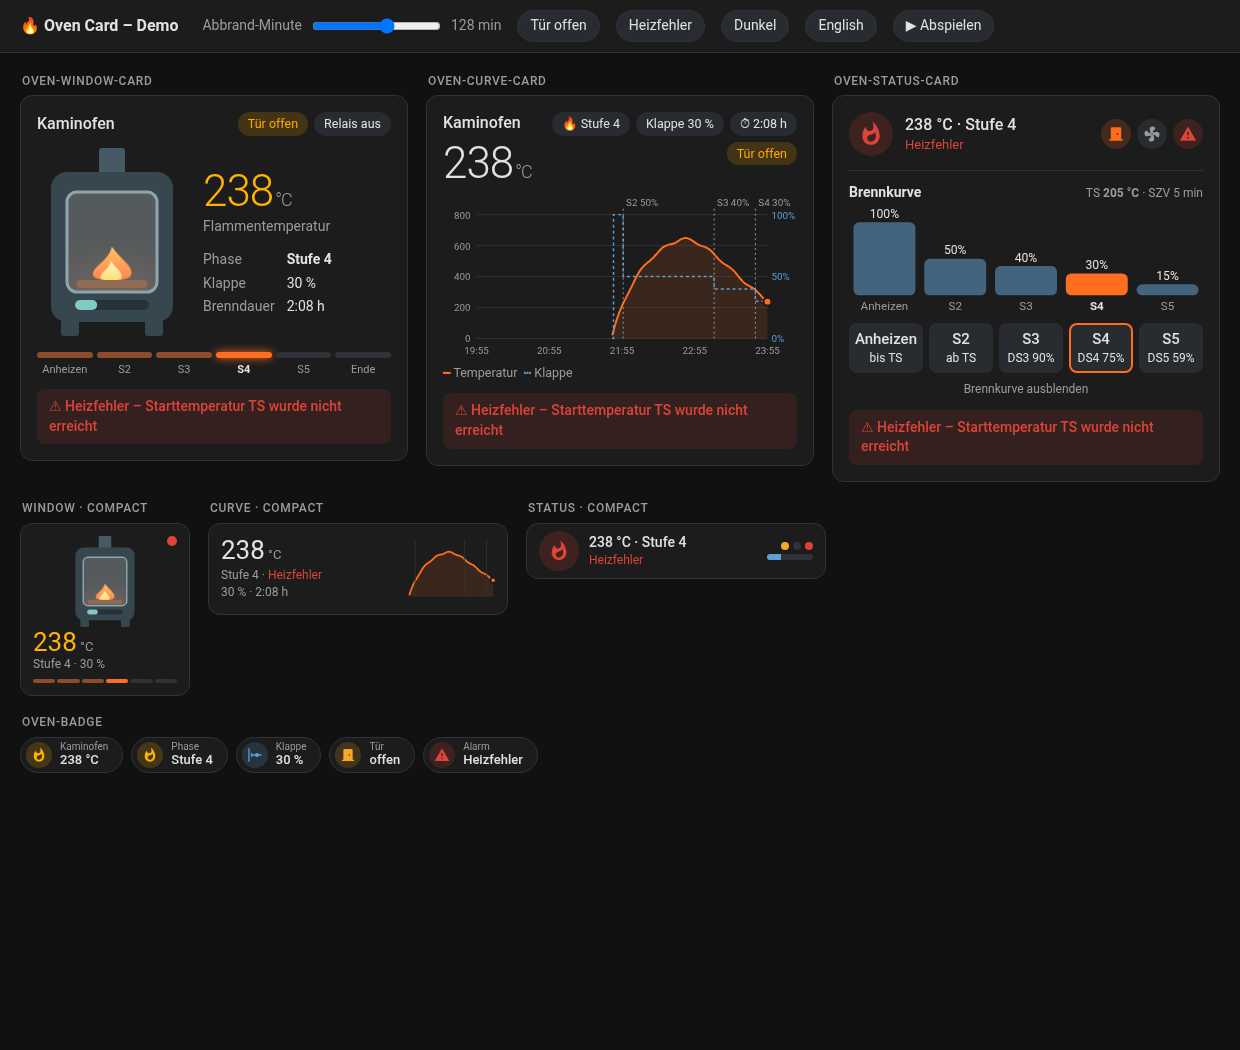
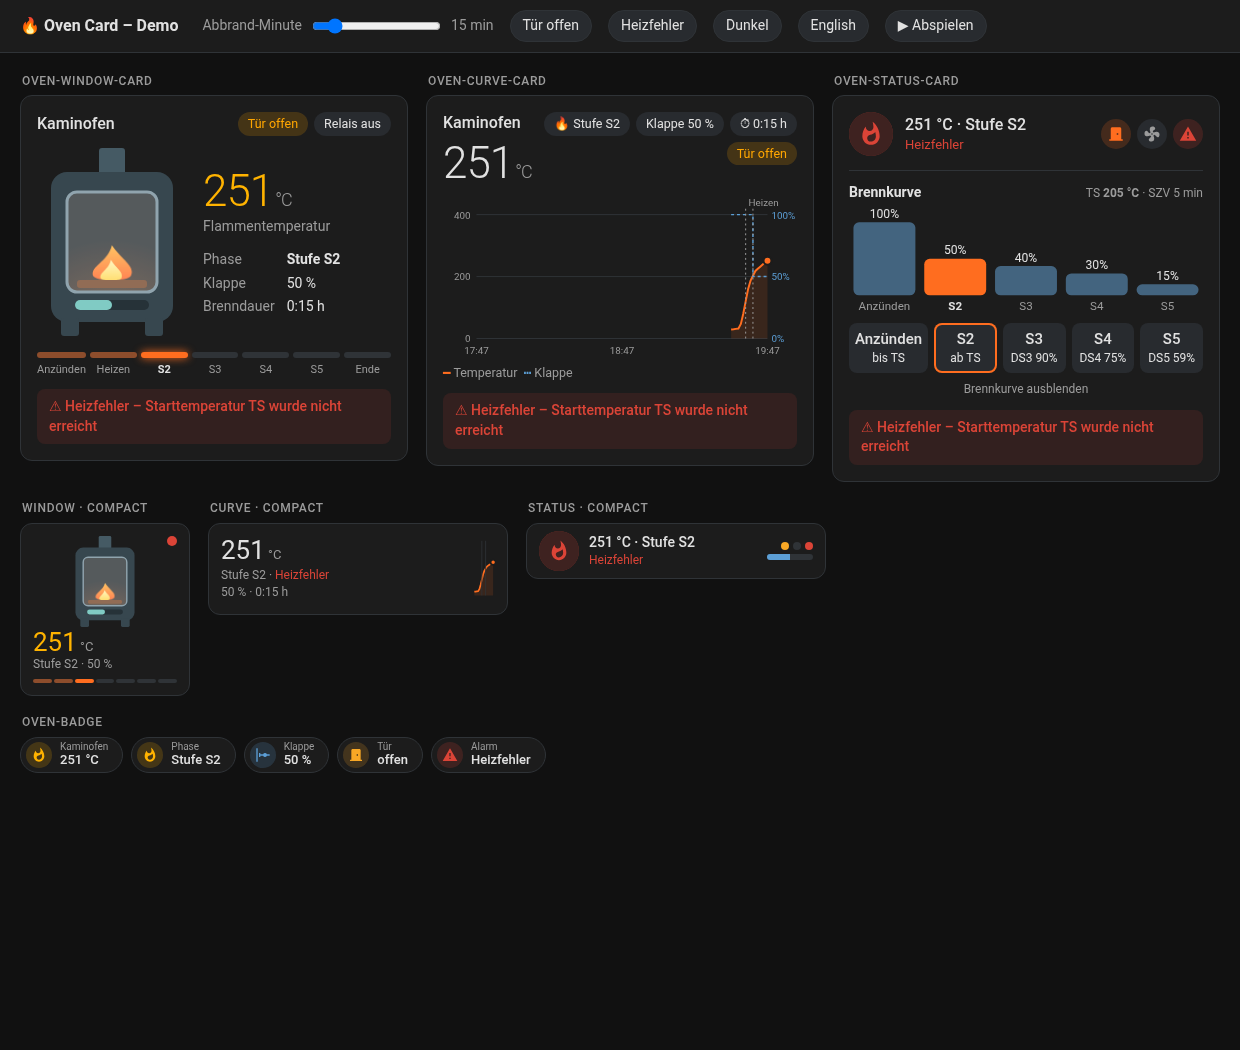
fix: map burn phases as measured on a live burn
Raw phase 2 is heating up and stages S2-S5 are phases 3-6; read the text
phase sensor of Oven Control 0.3.0 and the older numeric one. The demo
replays the measured burn, the curve defaults to 2 hours and stage labels
no longer overlap.

diff --git a/dist/oven-card.js b/dist/oven-card.js
@@ -15,11 +15,13 @@
 
 const VERSION = "0.1.0";
 const DOMAIN = "oven_control";
-const PHASE_ORDER = [1, 2, 3, 4, 5, 8];
+const PHASE_ORDER = [1, 2, 3, 4, 5, 6, 8];
+// States of the burn phase sensor -> raw controller phase (stages S2–S5 are phases 3–6).
+const PHASE_RAW = { idle: 0, start: 1, heating_up: 2, stage_2: 3, stage_3: 4, stage_4: 5, stage_5: 6, finished: 8 };
 
 const STRINGS = {
   en: {
-    oven: "Stove", off: "Off", start: "Kindling", stage: "Stage", end: "End", phase: "Phase",
+    oven: "Stove", off: "Off", start: "Kindling", heating: "Heating up", heat: "Heat", stage: "Stage", end: "End", phase: "Phase",
     flame: "Flame temperature", flap: "Air flap", duration: "Burn duration", door: "Door",
     open: "open", closed: "closed", relay: "Relay", on: "on", relay_off: "off",
     heating_error: "Heating error – start temperature TS not reached",
@@ -32,7 +34,7 @@ const STRINGS = {
     show_curve: "Show burn curve", badge_show: "Shows", hide_inactive: "Hide when inactive",
   },
   de: {
-    oven: "Kaminofen", off: "Aus", start: "Anheizen", stage: "Stufe", end: "Ende", phase: "Phase",
+    oven: "Kaminofen", off: "Aus", start: "Anzünden", heating: "Aufheizen", heat: "Heizen", stage: "Stufe", end: "Ende", phase: "Phase",
     flame: "Flammentemperatur", flap: "Klappe", duration: "Brenndauer", door: "Tür",
     open: "offen", closed: "zu", relay: "Relais", on: "an", relay_off: "aus",
     heating_error: "Heizfehler – Starttemperatur TS wurde nicht erreicht",
@@ -92,10 +94,19 @@ function num(hass, id) {
 }
 const isOn = (hass, id) => hass.states[id]?.state === "on";
 
+/** Raw phase number from a state (text sensor since integration 0.3.0, number before). */
+function phaseNum(state, attrs) {
+  if (Number.isFinite(attrs?.raw_phase)) return attrs.raw_phase;
+  if (state in PHASE_RAW) return PHASE_RAW[state];
+  const v = parseInt(state, 10);
+  return Number.isFinite(v) ? v : null;
+}
+
 /** Read everything the cards need from the states of one device. */
 function readOven(hass, map) {
   const id = (k) => map[k];
-  const phase = num(hass, id("sensor.phase"));
+  const phaseState = hass.states[id("sensor.phase")];
+  const phase = phaseState ? phaseNum(phaseState.state, phaseState.attributes) : null;
   const errors = ["heating_error", "flame_sensor_error", "boiler_overheat", "buffer_top_overheat"]
     .filter((k) => id(`binary_sensor.${k}`) && isOn(hass, id(`binary_sensor.${k}`)));
   return {
@@ -112,7 +123,7 @@ function readOven(hass, map) {
     door: isOn(hass, id("binary_sensor.door")),
     relay: isOn(hass, id("binary_sensor.relay")),
     errors,
-    burning: phase !== null && phase >= 1 && phase <= 5,
+    burning: phase !== null && phase >= 1 && phase <= 6,
     params: {
       ts: num(hass, id("number.start_temp")),
       flap2: num(hass, id("number.flap2")), flap3: num(hass, id("number.flap3")),
@@ -127,7 +138,8 @@ function phaseLabel(hass, phase, short = false) {
   if (phase === null) return "–";
   if (phase === 0) return tr(hass, "off");
   if (phase === 1) return tr(hass, "start");
-  if (phase >= 2 && phase <= 5) return short ? `S${phase}` : `${tr(hass, "stage")} ${phase}`;
+  if (phase === 2) return tr(hass, short ? "heat" : "heating");
+  if (phase >= 3 && phase <= 6) return short ? `S${phase - 1}` : `${tr(hass, "stage")} S${phase - 1}`;
   if (phase === 8) return tr(hass, "end");
   return `${tr(hass, "phase")} ${phase}`;
 }
@@ -318,7 +330,7 @@ class OvenWindowCard extends OvenBaseCard {
     } else {
       const steps = PHASE_ORDER.map((p, i) => {
         const cls = i === idx ? (p === 8 ? "now stop" : "now") : i < idx ? "done" : "";
-        return `<div class="step ${cls}"><i></i>${esc(p === 1 ? tr(h, "start") : p === 8 ? tr(h, "end") : `S${p}`)}</div>`;
+        return `<div class="step ${cls}"><i></i>${esc(phaseLabel(h, p, true))}</div>`;
       }).join("");
       this._renderShell(`
         <div class="row" style="justify-content: space-between">
@@ -391,7 +403,7 @@ class OvenCurveCard extends OvenBaseCard {
   }
 
   get _hours() {
-    return Number(this._config?.hours_to_show) || 4;
+    return Number(this._config?.hours_to_show) || 2;
   }
 
   async _loadHistory(d) {
@@ -410,10 +422,10 @@ class OvenCurveCard extends OvenBaseCard {
         no_attributes: true,
         significant_changes_only: false,
       });
-      const series = (id) => (result[id] || [])
-        .map((p) => ({ t: (p.lu ?? p.lc) * 1000, v: parseFloat(p.s) }))
+      const series = (id, parse = parseFloat) => (result[id] || [])
+        .map((p) => ({ t: (p.lu ?? p.lc) * 1000, v: parse(p.s) ?? NaN }))
         .filter((p) => Number.isFinite(p.v) && Number.isFinite(p.t));
-      this._history = { temp: series(d.ids.temp), flap: series(d.ids.flap), phase: series(d.ids.phase) };
+      this._history = { temp: series(d.ids.temp), flap: series(d.ids.flap), phase: series(d.ids.phase, (v) => phaseNum(v)) };
       this._historyKey = key;
       this._historyFetched = now;
     } catch (err) {
@@ -518,13 +530,14 @@ class OvenCurveCard extends OvenBaseCard {
       if (f) out += `<path d="${f}" fill="none" stroke="#5c9fd6" stroke-width="1.5" stroke-dasharray="3 3"/>`;
     }
     // Stage markers where the phase changes.
-    let last = null;
+    let last = null, labelX = -Infinity;
     for (const p of s.phase) {
       if (last !== null && p.v !== last && p.t >= from && p.v >= 2) {
         const flapAt = [...s.flap].reverse().find((q) => q.t <= p.t + 30000)?.v;
         out += `<line x1="${x(p.t)}" x2="${x(p.t)}" y1="${mini ? 2 : T - 6}" y2="${H - B}" stroke="var(--${mini ? "divider" : "secondary-text"}-color)" ${mini ? "" : 'stroke-dasharray="2 3"'}/>`;
-        if (!mini) {
-          const label = p.v === 8 ? tr(this._hass, "end") : `S${p.v}${flapAt !== undefined ? ` ${Math.round(flapAt)}%` : ""}`;
+        if (!mini && x(p.t) - labelX >= 46) {
+          labelX = x(p.t);
+          const label = `${phaseLabel(this._hass, p.v, true)}${p.v >= 3 && p.v <= 6 && flapAt !== undefined ? ` ${Math.round(flapAt)}%` : ""}`;
           out += `<text x="${x(p.t) + 3}" y="${T - 9}" font-size="10" fill="var(--secondary-text-color)">${esc(label)}</text>`;
         }
       }
@@ -595,21 +608,21 @@ class OvenStatusCard extends OvenBaseCard {
     const open = this._open ?? this._config.show_curve !== false;
     const p = d.params;
     const stages = [
-      [1, 100, tr(h, "start"), tr(h, "until_ts")], [2, p.flap2, "S2", tr(h, "from_ts")],
-      [3, p.flap3, "S3", `DS3 ${fmtTemp(p.temp3)}%`], [4, p.flap4, "S4", `DS4 ${fmtTemp(p.temp4)}%`],
-      [5, p.flap5, "S5", `DS5 ${fmtTemp(p.temp5)}%`],
+      [[1, 2], 100, tr(h, "start"), tr(h, "until_ts")], [[3], p.flap2, "S2", tr(h, "from_ts")],
+      [[4], p.flap3, "S3", `DS3 ${fmtTemp(p.temp3)}%`], [[5], p.flap4, "S4", `DS4 ${fmtTemp(p.temp4)}%`],
+      [[6], p.flap5, "S5", `DS5 ${fmtTemp(p.temp5)}%`],
     ];
     const W = 320, H = 96, bw = W / stages.length;
     let bars = "";
     stages.forEach(([ph, flap, name], i) => {
-      const active = d.phase === ph, fh = ((H - 30) * (flap ?? 0)) / 100;
+      const active = ph.includes(d.phase), fh = ((H - 30) * (flap ?? 0)) / 100;
       bars += `<rect x="${i * bw + 4}" y="${H - 18 - fh}" width="${bw - 8}" height="${fh}" rx="5"
           fill="${active ? "#ff6d1f" : "color-mix(in srgb, #5c9fd6 45%, var(--divider-color))"}"/>
         <text x="${i * bw + bw / 2}" y="${H - 22 - fh}" font-size="11" text-anchor="middle" fill="var(--primary-text-color)">${fmtTemp(flap)}%</text>
         <text x="${i * bw + bw / 2}" y="${H - 5}" font-size="10.5" text-anchor="middle" fill="var(--${active ? "primary" : "secondary"}-text-color)" font-weight="${active ? 600 : 400}">${esc(name)}</text>`;
     });
     const params = stages.map(([ph, , name, cond]) =>
-      `<div class="param ${d.phase === ph ? "active" : ""}"><b>${esc(name)}</b>${esc(cond)}</div>`).join("");
+      `<div class="param ${ph.includes(d.phase) ? "active" : ""}"><b>${esc(name)}</b>${esc(cond)}</div>`).join("");
     this._renderShell(`
       <div class="crow clickable" data-entity="${d.ids.temp}">
         ${icon}

diff --git a/demo/index.html b/demo/index.html
@@ -29,7 +29,7 @@
 <body>
 <header>
   <h1>🔥 Oven Card – Demo</h1>
-  <label>Abbrand-Minute <input id="minute" type="range" min="0" max="215" value="62"> <span id="ml"></span></label>
+  <label>Abbrand-Minute <input id="minute" type="range" min="0" max="113" value="25"> <span id="ml"></span></label>
   <button id="door">Tür offen</button>
   <button id="error">Heizfehler</button>
   <button id="theme">Dunkel</button>
@@ -79,18 +79,26 @@
     [entity_id, { entity_id, translation_key, platform: "oven_control", device_id: DEV }]));
   const byKey = Object.fromEntries(Object.entries(ENT).map(([id, k]) => [`${id.split(".")[0]}.${k}`, id]));
 
-  // Simulated burn with the curve of the live unit.
-  const STAGES = [[1, 0, 100], [2, 9, 50], [3, 84, 40], [4, 118, 30], [5, 152, 15], [8, 196, 100]];
-  const tempAt = (m) => m <= 0 ? 21 : Math.round(Math.max(45, (21 + 700 * (1 - Math.exp(-m / 26))) * (m > 55 ? Math.exp(-(((m - 55) / 70) ** 1.6)) : 1)) + 8 * Math.sin(m / 3));
+  // Replay of a real burn (2026-10-18): flame temperature per minute after closing the door,
+  // and [phase, start minute, flap %] as reported by the controller.
+  const TEMPS = [29, 30, 31, 32, 47, 79, 120, 160, 186, 203, 218, 225, 232, 239, 246, 251, 256, 261, 264, 264,
+    270, 270, 267, 266, 264, 261, 258, 253, 248, 244, 240, 237, 233, 227, 225, 222, 218, 215, 211, 207, 203, 199,
+    196, 192, 190, 187, 185, 182, 179, 176, 173, 170, 167, 165, 163, 161, 159, 158, 152, 151, 151, 150, 149, 148,
+    148, 149, 149, 148, 148, 147, 147, 145, 144, 143, 143, 142, 141, 140, 139, 138, 138, 137, 136, 135, 134, 133,
+    133, 132, 132, 131, 130, 130, 129, 129, 128, 128, 127, 126, 126, 125, 125, 125, 124, 124, 123, 122, 122, 121,
+    121, 120, 120, 120, 119, 119];
+  const STAGES = [[1, 0, 100], [2, 6, 100], [3, 9, 50], [4, 32, 40], [5, 42, 30], [6, 57, 15], [8, 62, 0]];
+  const PHASE_STATE = { 0: "idle", 1: "start", 2: "heating_up", 3: "stage_2", 4: "stage_3", 5: "stage_4", 6: "stage_5", 8: "finished" };
+  const tempAt = (m) => TEMPS[Math.min(Math.max(m, 0), TEMPS.length - 1)];
   const stageAt = (m) => STAGES.filter((s) => m >= s[1]).at(-1);
-  const st = { minute: 62, door: false, error: false, dark: false, lang: "de" };
+  const st = { minute: 25, door: false, error: false, dark: false, lang: "de" };
 
   function makeHass() {
     const m = st.minute, s = stageAt(m);
     const v = {
-      "sensor.flame_temperature": tempAt(m), "sensor.flap": m ? s[2] : 0, "sensor.phase": m ? s[0] : 0,
-      "sensor.burn_duration": Math.min(m, 196), "sensor.latest_alarm": "2025-11-23",
-      "binary_sensor.door": st.door ? "on" : "off", "binary_sensor.relay": m > 0 && m < 30 ? "on" : "off",
+      "sensor.flame_temperature": tempAt(m), "sensor.flap": s[2], "sensor.phase": PHASE_STATE[s[0]],
+      "sensor.burn_duration": Math.min(m, 62), "sensor.latest_alarm": "2025-11-23",
+      "binary_sensor.door": st.door ? "on" : "off", "binary_sensor.relay": "off",
       "binary_sensor.heating_error": st.error ? "on" : "off", "binary_sensor.flame_sensor_error": "off",
       "number.start_temp": 205, "number.flap2": 50, "number.flap3": 40, "number.flap4": 30, "number.flap5": 15,
       "number.temp3": 90, "number.temp4": 75, "number.temp5": 59, "number.close_timeout": 5,
@@ -106,9 +114,9 @@
         for (const id of msg.entity_ids) {
           const key = ENT[id];
           const pts = [];
-          for (let i = Math.max(0, m - 240); i <= m; i++) {
+          for (let i = 0; i <= m; i++) {
             const t = (now - (m - i) * 60000) / 1000;
-            const sv = key === "flame_temperature" ? tempAt(i) : key === "flap" ? (i ? stageAt(i)[2] : 0) : (i ? stageAt(i)[0] : 0);
+            const sv = key === "flame_temperature" ? tempAt(i) : key === "flap" ? stageAt(i)[2] : PHASE_STATE[stageAt(i)[0]];
             pts.push({ s: String(sv), lu: t });
           }
           out[id] = pts;
@@ -163,7 +171,7 @@
   document.getElementById("play").addEventListener("click", (e) => {
     if (timer) { clearInterval(timer); timer = null; e.target.textContent = "▶ Abspielen"; return; }
     e.target.textContent = "⏸ Pause";
-    timer = setInterval(() => { st.minute = (st.minute + 1) % 216; render(); }, 80);
+    timer = setInterval(() => { st.minute = (st.minute + 1) % TEMPS.length; render(); }, 80);
   });
   render();
 </script>

diff --git a/README.md b/README.md
@@ -48,7 +48,7 @@ stove is used.
 | `device` | all | first stove | Device id of the stove |
 | `name` | all | "Kaminofen" / "Stove" | Title (badge: label of the temperature badge) |
 | `compact` | cards | `false` | Small variant |
-| `hours_to_show` | curve | `4` | Time range of the curve |
+| `hours_to_show` | curve | `2` | Time range of the curve |
 | `show_curve` | status | `true` | Burn curve expanded at start |
 | `show` | badge | `temperature` | `temperature`, `phase`, `flap`, `door` or `alarm` |
 | `hide_inactive` | badge | `true` | Hide the door and alarm badges while nothing is open or wrong |
@@ -70,8 +70,9 @@ type: custom:oven-badge
 show: alarm
 ```
 
-Phase names: 1 = kindling (waiting for the start temperature TS), 2–5 = stages S2–S5, 8 =
-end. Other values are shown as "Phase n".
+Phases as mapped from a live burn: kindling (flap open, fire catching), heating up (until the
+start temperature TS), stages S2–S5 and end. Unknown values are shown as "Phase n". Both the
+text phase sensor of Oven Control 0.3.0 and the numeric one of older versions work.
 
 ![Cards in the dark theme with an open door and a heating error](docs/dark.png)
 
